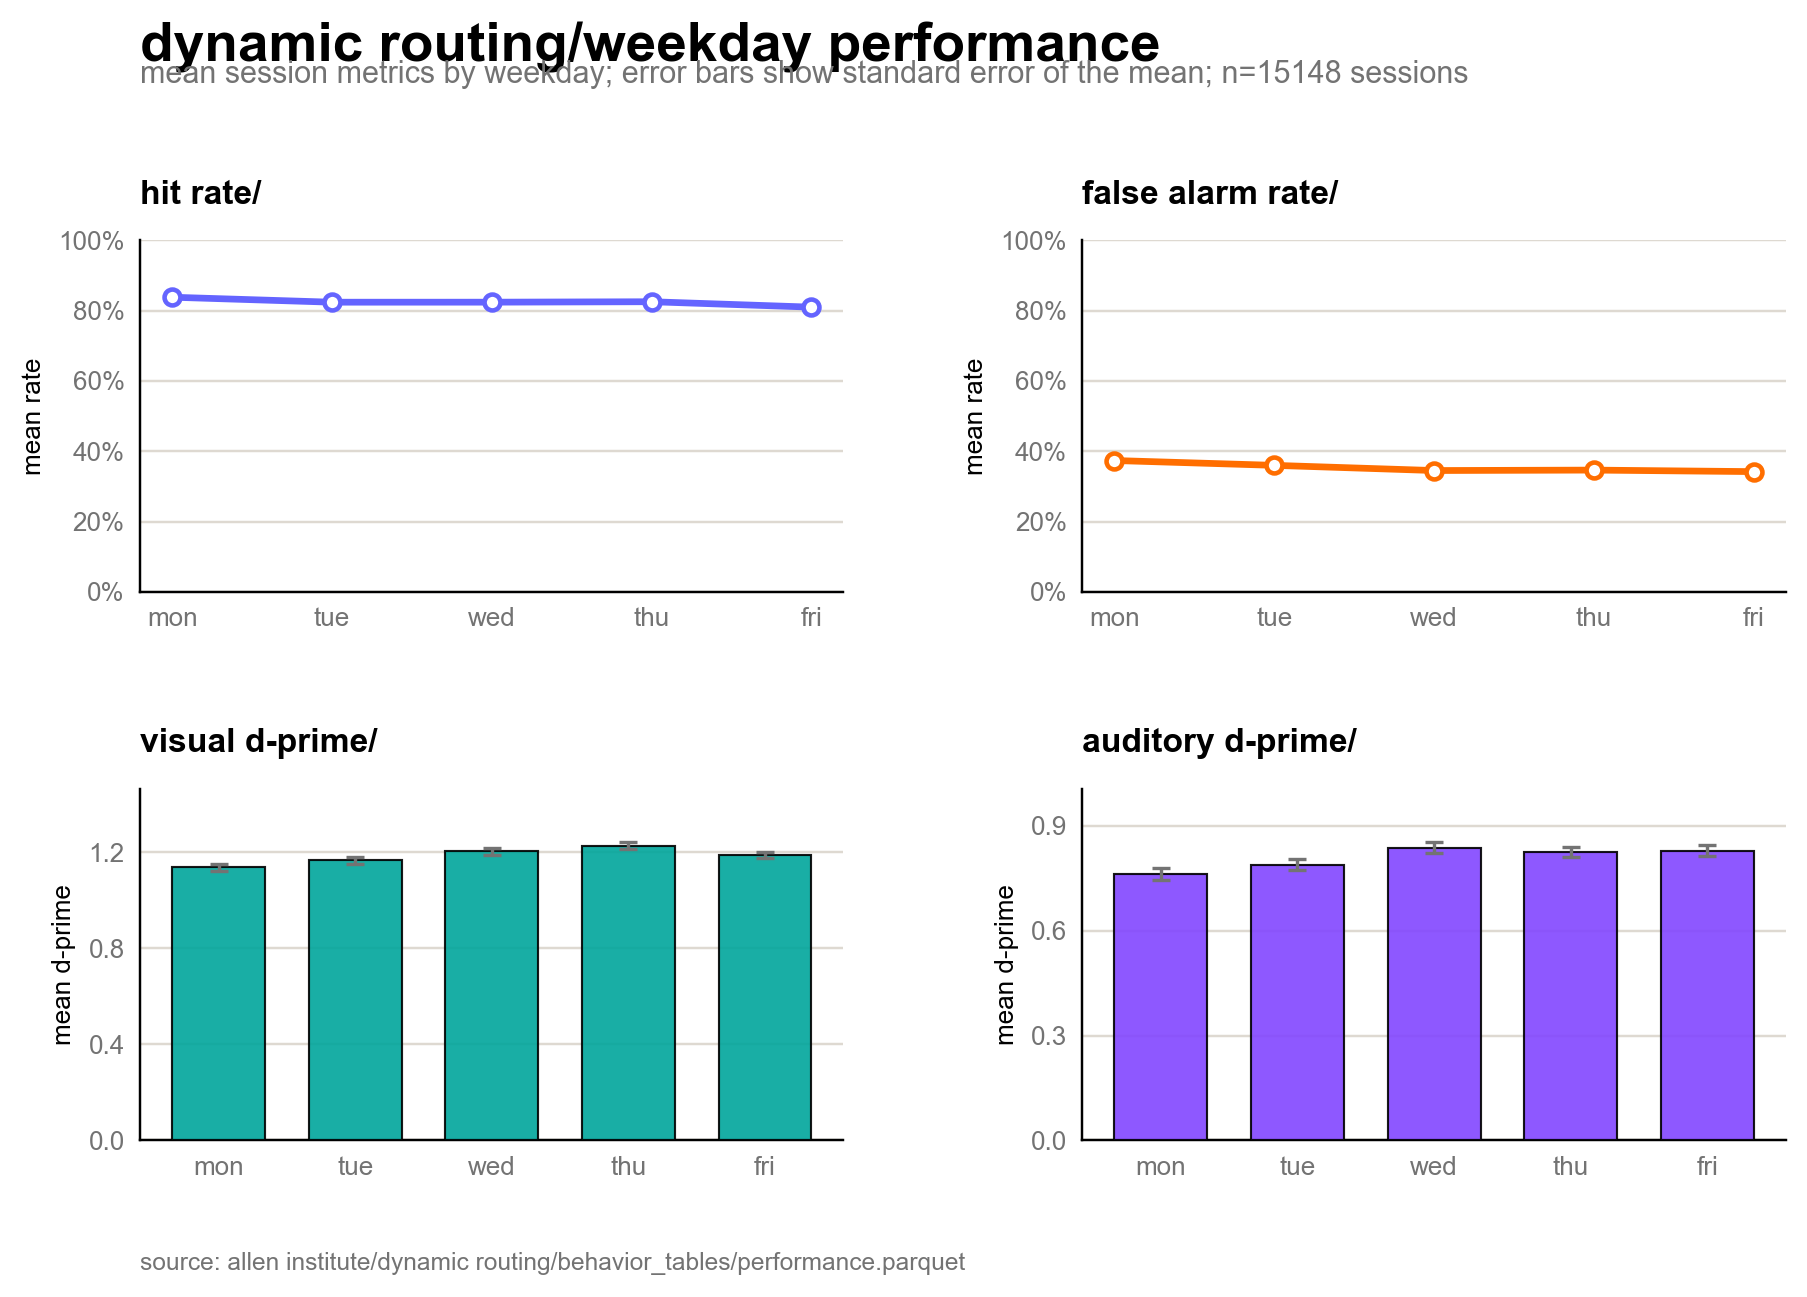
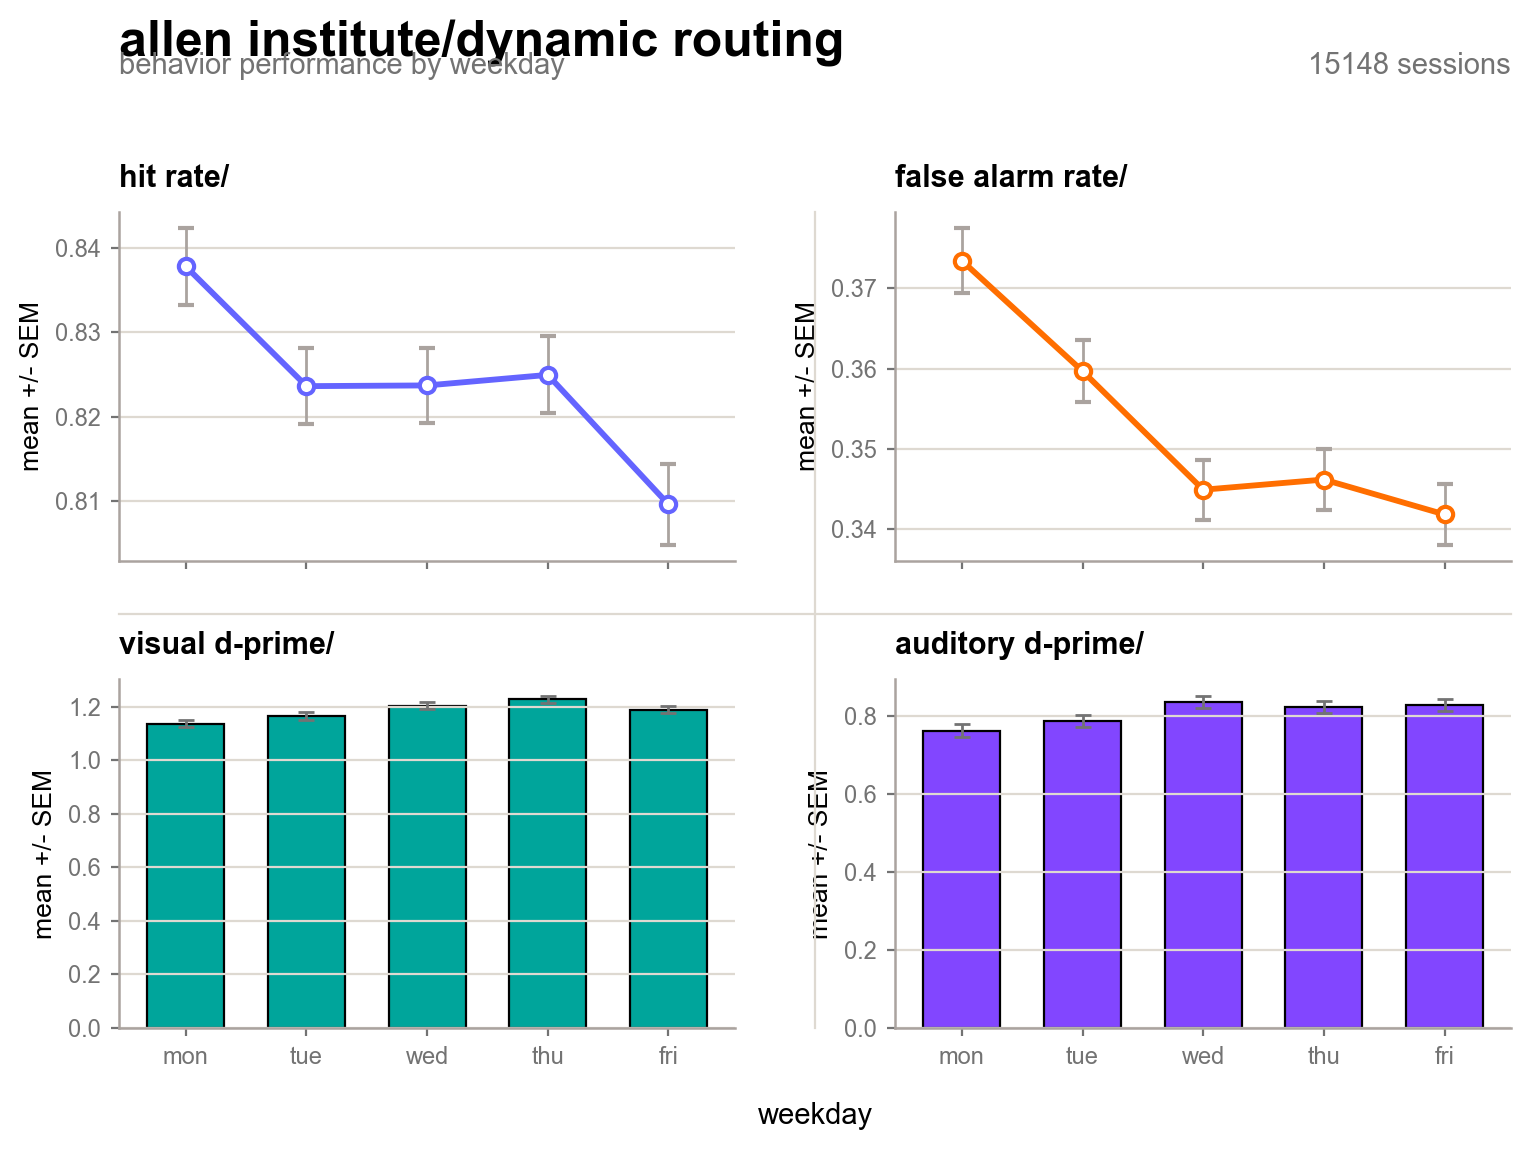
Record Allen compact layout benchmark attempt

diff --git a/.autoresearch/mod_plot.py b/.autoresearch/mod_plot.py
@@ -7,14 +7,13 @@
 # ///
 from __future__ import annotations
 
-import math
 from pathlib import Path
 
 import matplotlib.pyplot as plt
 import polars as pl
 from cycler import cycler
 from matplotlib import font_manager
-from matplotlib.ticker import MaxNLocator, PercentFormatter
+from matplotlib.lines import Line2D
 
 
 SOURCE = Path(
@@ -22,6 +21,14 @@ SOURCE = Path(
 )
 OUT_DIR = Path(__file__).resolve().parent
 FIGURE_PATH = OUT_DIR / "plot.png"
+
+PLOTS = (
+    ("hit_rate", "line"),
+    ("false_alarm_rate", "line"),
+    ("vis_dprime", "bar"),
+    ("aud_dprime", "bar"),
+)
+METRICS = tuple(metric for metric, _ in PLOTS)
 
 ALLEN = {
     "black": "#000000",
@@ -54,37 +61,38 @@ ALLEN_SERIES = [
         "yellow",
     )
 ]
-INSTALLED_FONTS = {font.name for font in font_manager.fontManager.ttflist}
-ALLEN_FONT = next(
-    (
-        font
-        for font in (
-            "Allen Institute Text",
-            "Allen Institute",
-            "Arial",
-            "Segoe UI",
-            "Bahnschrift",
-            "Calibri",
-            "DejaVu Sans",
-        )
-        if font in INSTALLED_FONTS
-    ),
-    "DejaVu Sans",
-)
-
-PLOTS = (
-    ("hit_rate", "line", ALLEN["blue"]),
-    ("false_alarm_rate", "line", ALLEN["orange"]),
-    ("vis_dprime", "bar", ALLEN["teal"]),
-    ("aud_dprime", "bar", ALLEN["violet"]),
-)
-METRICS = tuple(metric for metric, _, _ in PLOTS)
 METRIC_LABELS = {
     "hit_rate": "hit rate",
     "false_alarm_rate": "false alarm rate",
     "vis_dprime": "visual d-prime",
     "aud_dprime": "auditory d-prime",
 }
+METRIC_COLORS = {
+    "hit_rate": ALLEN["blue"],
+    "false_alarm_rate": ALLEN["orange"],
+    "vis_dprime": ALLEN["teal"],
+    "aud_dprime": ALLEN["violet"],
+}
+
+
+def resolve_font() -> str:
+    installed_fonts = {font.name for font in font_manager.fontManager.ttflist}
+    return next(
+        (
+            font
+            for font in (
+                "Allen Institute Text",
+                "Allen Institute",
+                "Arial",
+                "Segoe UI",
+                "Bahnschrift",
+                "Calibri",
+                "DejaVu Sans",
+            )
+            if font in installed_fonts
+        ),
+        "DejaVu Sans",
+    )
 
 
 def apply_allen_style() -> None:
@@ -94,14 +102,18 @@ def apply_allen_style() -> None:
             "axes.facecolor": ALLEN["white"],
             "axes.edgecolor": ALLEN["black"],
             "axes.labelcolor": ALLEN["black"],
+            "axes.linewidth": 0.9,
+            "axes.prop_cycle": cycler(color=ALLEN_SERIES),
+            "font.family": resolve_font(),
+            "font.size": 10,
+            "grid.color": ALLEN["page2"],
+            "grid.linewidth": 0.8,
+            "legend.frameon": False,
+            "savefig.facecolor": ALLEN["white"],
+            "savefig.bbox": "tight",
+            "text.color": ALLEN["black"],
             "xtick.color": ALLEN["gray2"],
             "ytick.color": ALLEN["gray2"],
-            "grid.color": ALLEN["page2"],
-            "text.color": ALLEN["black"],
-            "axes.prop_cycle": cycler(color=ALLEN_SERIES),
-            "font.family": ALLEN_FONT,
-            "font.size": 9.5,
-            "savefig.facecolor": ALLEN["white"],
         }
     )
 
@@ -158,133 +170,126 @@ def summarize_by_weekday(sessions: pl.DataFrame) -> pl.DataFrame:
     return summary
 
 
-def clean_values(values: list[float | None]) -> list[float]:
-    cleaned = []
-    for value in values:
-        if value is None:
-            cleaned.append(0.0)
-            continue
-
-        number = float(value)
-        cleaned.append(number if math.isfinite(number) else 0.0)
-    return cleaned
-
-
-def style_axis(ax: plt.Axes, plot_type: str) -> None:
-    ax.set_axisbelow(True)
-    ax.grid(axis="y", color=ALLEN["page2"], linewidth=0.8)
-    ax.grid(axis="x", visible=False)
+def style_axis(ax: plt.Axes, metric: str, weekdays: list[str]) -> None:
+    ax.set_title(
+        f"{METRIC_LABELS[metric]}/",
+        loc="left",
+        fontsize=11,
+        fontweight="bold",
+        pad=9,
+    )
+    ax.set_xticks(range(len(weekdays)))
+    ax.set_xticklabels([weekday.lower() for weekday in weekdays])
+    ax.set_ylabel("mean +/- SEM", fontsize=9.5)
+    ax.grid(axis="y")
     ax.spines["top"].set_visible(False)
     ax.spines["right"].set_visible(False)
-    ax.spines["left"].set_color(ALLEN["black"])
-    ax.spines["bottom"].set_color(ALLEN["black"])
-    ax.tick_params(axis="both", colors=ALLEN["gray2"], labelsize=8.5, length=0, pad=5)
-
-    if plot_type == "line":
-        ax.set_ylim(0, 1)
-        ax.yaxis.set_major_formatter(PercentFormatter(xmax=1.0, decimals=0))
-        ax.set_ylabel("mean rate", fontsize=8.5, color=ALLEN["black"])
-    else:
-        ax.yaxis.set_major_locator(MaxNLocator(nbins=4))
-        ax.set_ylabel("mean d-prime", fontsize=8.5, color=ALLEN["black"])
+    ax.spines["left"].set_color(ALLEN["gray1"])
+    ax.spines["bottom"].set_color(ALLEN["gray1"])
+    ax.tick_params(axis="both", length=3, width=0.8, labelsize=8.5)
 
 
 def make_plot(summary: pl.DataFrame) -> None:
     apply_allen_style()
 
     x = list(range(summary.height))
-    weekdays = [str(day).lower() for day in summary["weekday"].to_list()]
-    total_sessions = int(summary["n_sessions"].sum())
-
-    fig, axes = plt.subplots(2, 2, figsize=(8.5, 6.2), constrained_layout=False)
+    weekdays = summary["weekday"].to_list()
+    fig, axes = plt.subplots(2, 2, figsize=(8, 6), sharex=True)
     fig.subplots_adjust(
-        left=0.10,
+        left=0.11,
         right=0.98,
-        bottom=0.14,
-        top=0.80,
-        hspace=0.56,
-        wspace=0.34,
+        bottom=0.13,
+        top=0.81,
+        hspace=0.34,
+        wspace=0.26,
     )
+
     fig.suptitle(
-        "dynamic routing/weekday performance",
-        x=0.10,
-        y=0.96,
+        "allen institute/dynamic routing",
+        x=0.11,
+        y=0.97,
         ha="left",
         fontsize=18,
         fontweight="bold",
     )
     fig.text(
-        0.10,
-        0.915,
-        f"mean session metrics by weekday; error bars show standard error of the mean; n={total_sessions} sessions",
+        0.11,
+        0.925,
+        "behavior performance by weekday",
         ha="left",
-        fontsize=10,
+        fontsize=10.5,
         color=ALLEN["gray2"],
     )
+    fig.text(
+        0.98,
+        0.925,
+        f"{int(summary['n_sessions'].sum())} sessions",
+        ha="right",
+        fontsize=10.5,
+        color=ALLEN["gray2"],
+    )
+    fig.supxlabel("weekday", x=0.545, y=0.045, fontsize=10.5)
 
-    for ax, (metric, plot_type, color) in zip(axes.flat, PLOTS, strict=True):
-        y = clean_values(summary[f"{metric}_mean"].to_list())
-        yerr = clean_values(summary[f"{metric}_sem"].to_list())
+    for ax, (metric, plot_type) in zip(axes.flat, PLOTS, strict=True):
+        means = summary[f"{metric}_mean"].to_list()
+        sems = summary[f"{metric}_sem"].fill_null(0).to_list()
+        color = METRIC_COLORS[metric]
 
         if plot_type == "line":
             ax.errorbar(
                 x,
-                y,
-                yerr=yerr,
+                means,
+                yerr=sems,
                 color=color,
-                ecolor=ALLEN["gray2"],
-                elinewidth=1.1,
+                ecolor=ALLEN["gray1"],
+                elinewidth=1.0,
                 capsize=3,
-                capthick=1.1,
-                linewidth=2.2,
+                linewidth=2.1,
                 marker="o",
-                markersize=5.2,
+                markersize=5.5,
                 markerfacecolor=ALLEN["white"],
                 markeredgecolor=color,
                 markeredgewidth=1.5,
-                zorder=3,
             )
         else:
             ax.bar(
                 x,
-                y,
-                yerr=yerr,
+                means,
+                yerr=sems,
                 color=color,
                 edgecolor=ALLEN["black"],
+                linewidth=0.8,
                 error_kw={
                     "ecolor": ALLEN["gray2"],
-                    "elinewidth": 1.1,
+                    "elinewidth": 1.0,
                     "capsize": 3,
-                    "capthick": 1.1,
+                    "capthick": 1.0,
                 },
-                linewidth=0.7,
-                alpha=0.90,
-                width=0.68,
-                zorder=3,
+                width=0.64,
             )
-            upper = max((value + error for value, error in zip(y, yerr, strict=True)), default=1)
-            lower = min((value - error for value, error in zip(y, yerr, strict=True)), default=0)
-            ax.set_ylim(min(0, lower * 1.10), max(1, upper * 1.18))
 
-        ax.set_title(
-            f"{METRIC_LABELS[metric]}/",
-            loc="left",
-            fontsize=11,
-            fontweight="bold",
-            pad=12,
+        style_axis(ax, metric, weekdays)
+
+    fig.add_artist(
+        Line2D(
+            [0.11, 0.98],
+            [0.475, 0.475],
+            transform=fig.transFigure,
+            color=ALLEN["page2"],
+            lw=0.8,
         )
-        ax.set_xticks(x, weekdays)
-        style_axis(ax, plot_type)
-
-    fig.text(
-        0.10,
-        0.045,
-        "source: allen institute/dynamic routing/behavior_tables/performance.parquet",
-        ha="left",
-        fontsize=8,
-        color=ALLEN["gray2"],
     )
-    fig.savefig(FIGURE_PATH, dpi=220, bbox_inches="tight")
+    fig.add_artist(
+        Line2D(
+            [0.545, 0.545],
+            [0.13, 0.81],
+            transform=fig.transFigure,
+            color=ALLEN["page2"],
+            lw=0.8,
+        )
+    )
+
+    fig.savefig(FIGURE_PATH, dpi=200)
     plt.close(fig)
 
 
